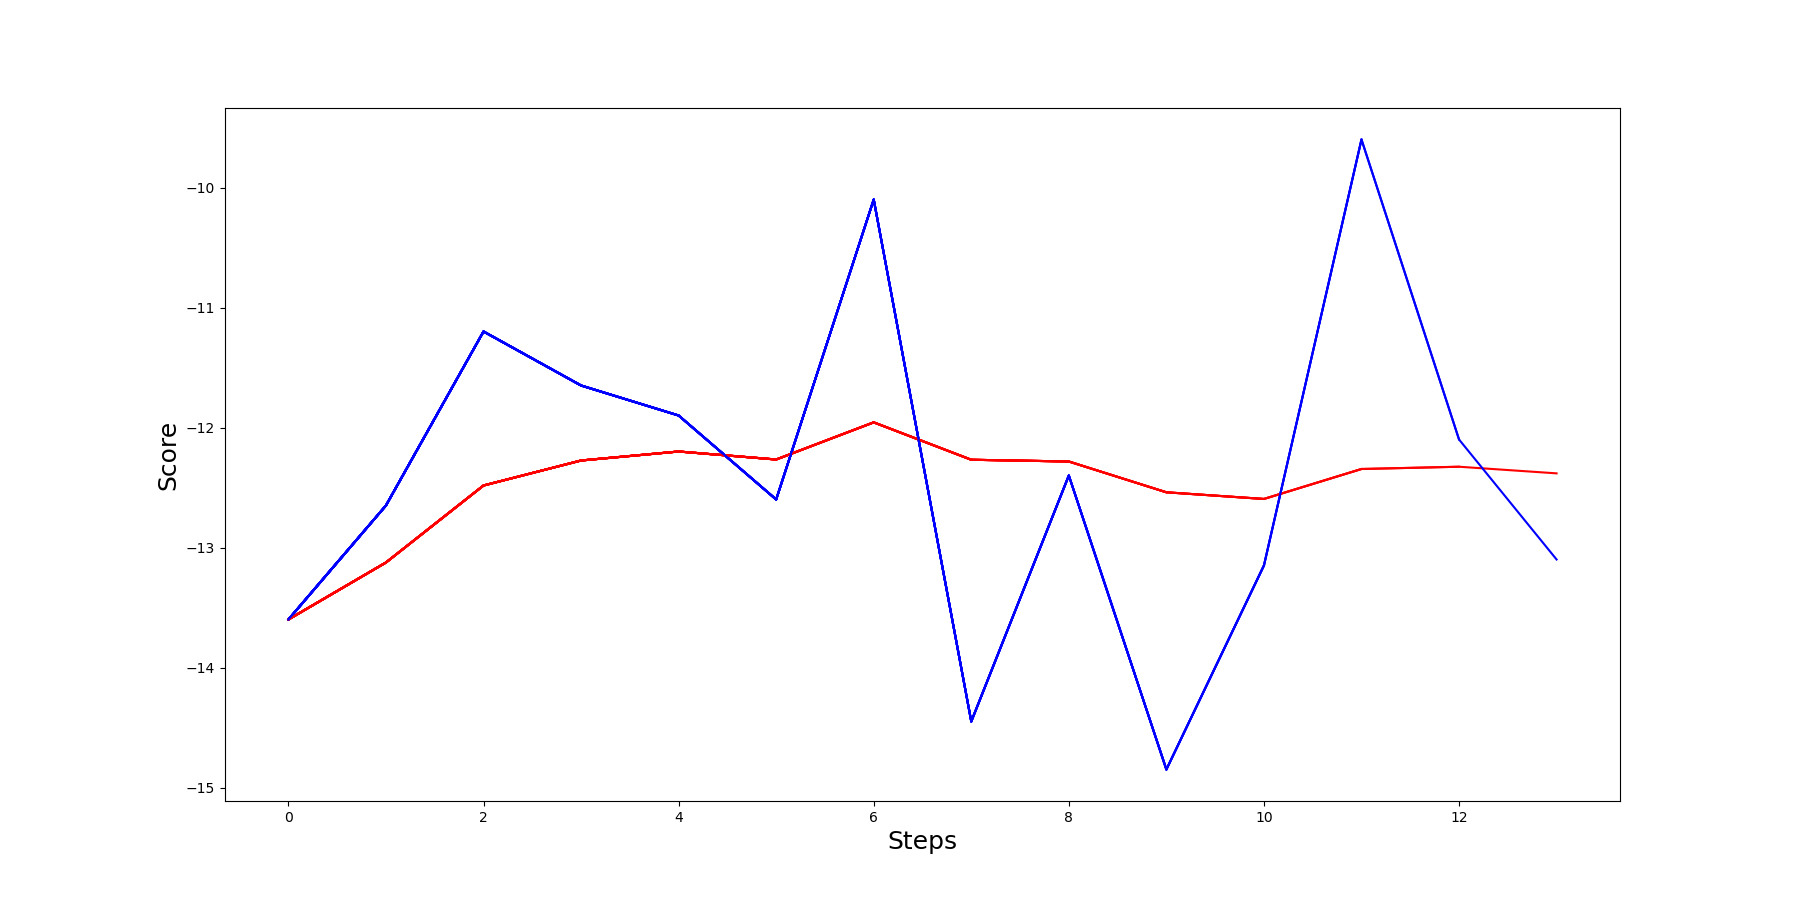
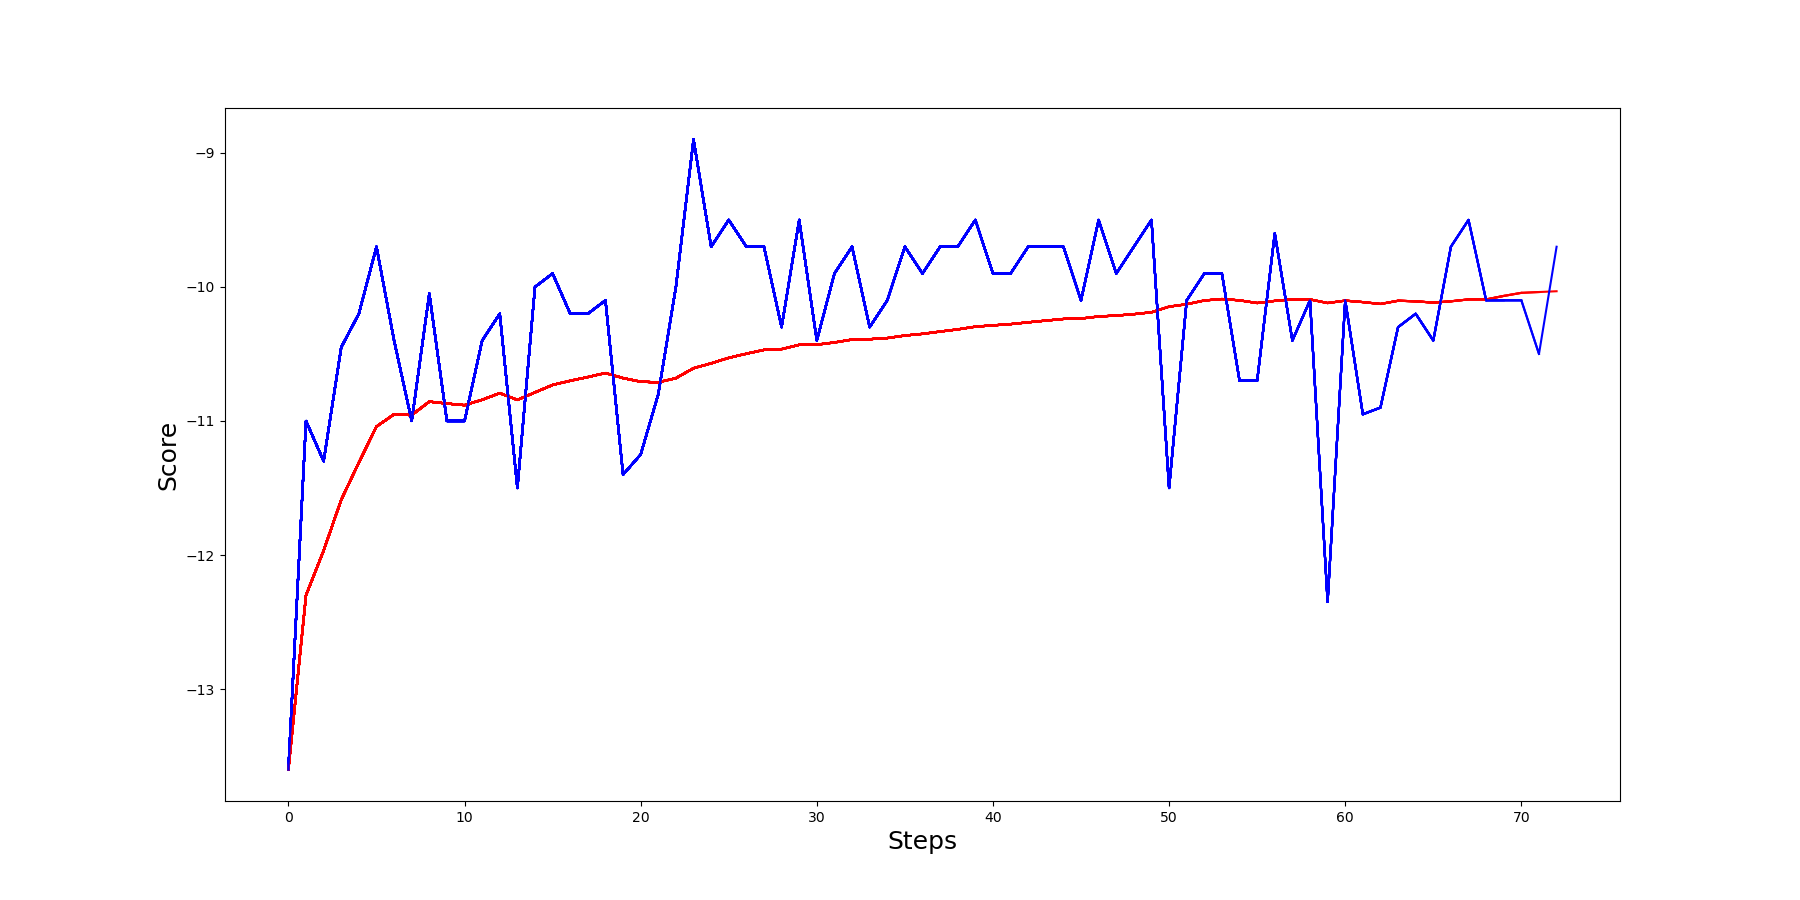
added_time distrubuted layer. Increased model perfoprmance

diff --git a/DQN_agent.py b/DQN_agent.py
@@ -51,7 +51,7 @@ class DQN:
         self.burn_limit = .001
         self.learning_rate = 0.00025
         self.modelname ='D3QNmodel'
-        self.memory = deque(maxlen=30000)
+        self.memory = deque(maxlen=100000)
         if model == None:
             self.model = self.build_modelGPU()
             # self.target_model = self.build_modelGPU()
@@ -62,7 +62,7 @@ class DQN:
 
     def saveModel(self, score="n.a"):
         print(self.model.name+"-" + str(DQN.currEpisode)+str(int(score)) + " saved! ")
-        self.model.save("savedModels\\"+self.model.name+"\\CNN-{}-{:.2f}.h5".format(DQN.currEpisode, score), overwrite=True)
+        self.model.save("savedModels\\"+self.model.name+"\\one_cnn_stateData-{}-{:.2f}.h5".format(DQN.currEpisode, self.average), overwrite=True)
 
     def build_modelPar(self,input_shape=(4, 100, 100,)):
 
@@ -126,22 +126,24 @@ class DQN:
 
     
     
-    def build_modelGPU(self, input_shape=(1,4,336,1), action_space=6, dueling=True):
+    def build_modelGPU(self, input_shape=(4,336,1), action_space=6, dueling=True):
         self.network_size = 256
 
         X_input = Input(shape=(4*336,))
         X = X_input
         truncatedn_init = initializers.TruncatedNormal(0, 1e-2)
-        x_init = initializers.GlorotUniform()
+        x_init ="he_uniform"
         const_init = initializers.constant(1e-2)
         X = Reshape(input_shape)(X)        
-        X = TimeDistributed(Conv2D(64, 4, strides=(2), activation="relu",  padding="same", kernel_initializer='he_uniform', data_format='channels_first'))(X)
-        # X = Conv2D(64, 4, strides=(2),padding="valid",activation="elu", kernel_initializer=x_init,   data_format="channels_first")(X)
+        X = TimeDistributed(Dense(4, activation="softmax", kernel_initializer=x_init))(X)
+            # X = Conv2D(64, 4, strides=(2),padding="valid",activation="elu", kernel_initializer=x_init,   data_format="channels_first")(X)
         # X = Conv2D(128, 4, strides=(2),padding="valid",activation="elu",kernel_initializer=x_init,   data_format="channels_first")(X) 3cnn
         X = Flatten()(X)
         # 'Dense' is the basic form of a neural network layer
         # Input Layer of state size(4) and Hidden Layer with 512 nodes         
-        X = Dense(512, activation="elu", kernel_initializer=x_init)(X) 
+        X = Dense(512, activation="relu", kernel_initializer=x_init)(X) 
+        X = Dense(128, activation="relu", kernel_initializer=x_init)(X) 
+        X = Dense(64, activation="relu", kernel_initializer=x_init)(X) 
         # # Hidden layer with 256 nodes
         # X = Dense(256, activation="relu", kernel_initializer=truncatedn_init, bias_initializer=const_init)(X)
         
@@ -158,7 +160,7 @@ class DQN:
             X = Add()([state_value, action_advantage])
         else:
             # Output Layer with # of actions: 2 nodes (left, right)
-            X = Dense(action_space, activation="elu",kernel_initializer='he_uniform', bias_initializer=const_init)(X)
+            X = Dense(action_space, activation="relu",kernel_initializer='he_uniform', bias_initializer=const_init)(X)
 
         model = Model(inputs = X_input, outputs = X, name = '3CNN_model')
         model.compile(loss="mean_squared_error", optimizer=Adam(lr=self.learning_rate),  metrics=["accuracy"])

diff --git a/tempCodeRunnerFile.py b/tempCodeRunnerFile.py
@@ -1,2 +1,2 @@
-X = Dense(self.network_size*2,  activation="relu",
-                  kernel_initializer='he_uniform')(X)
+
+        x_init = initializers.GlorotUniform()
